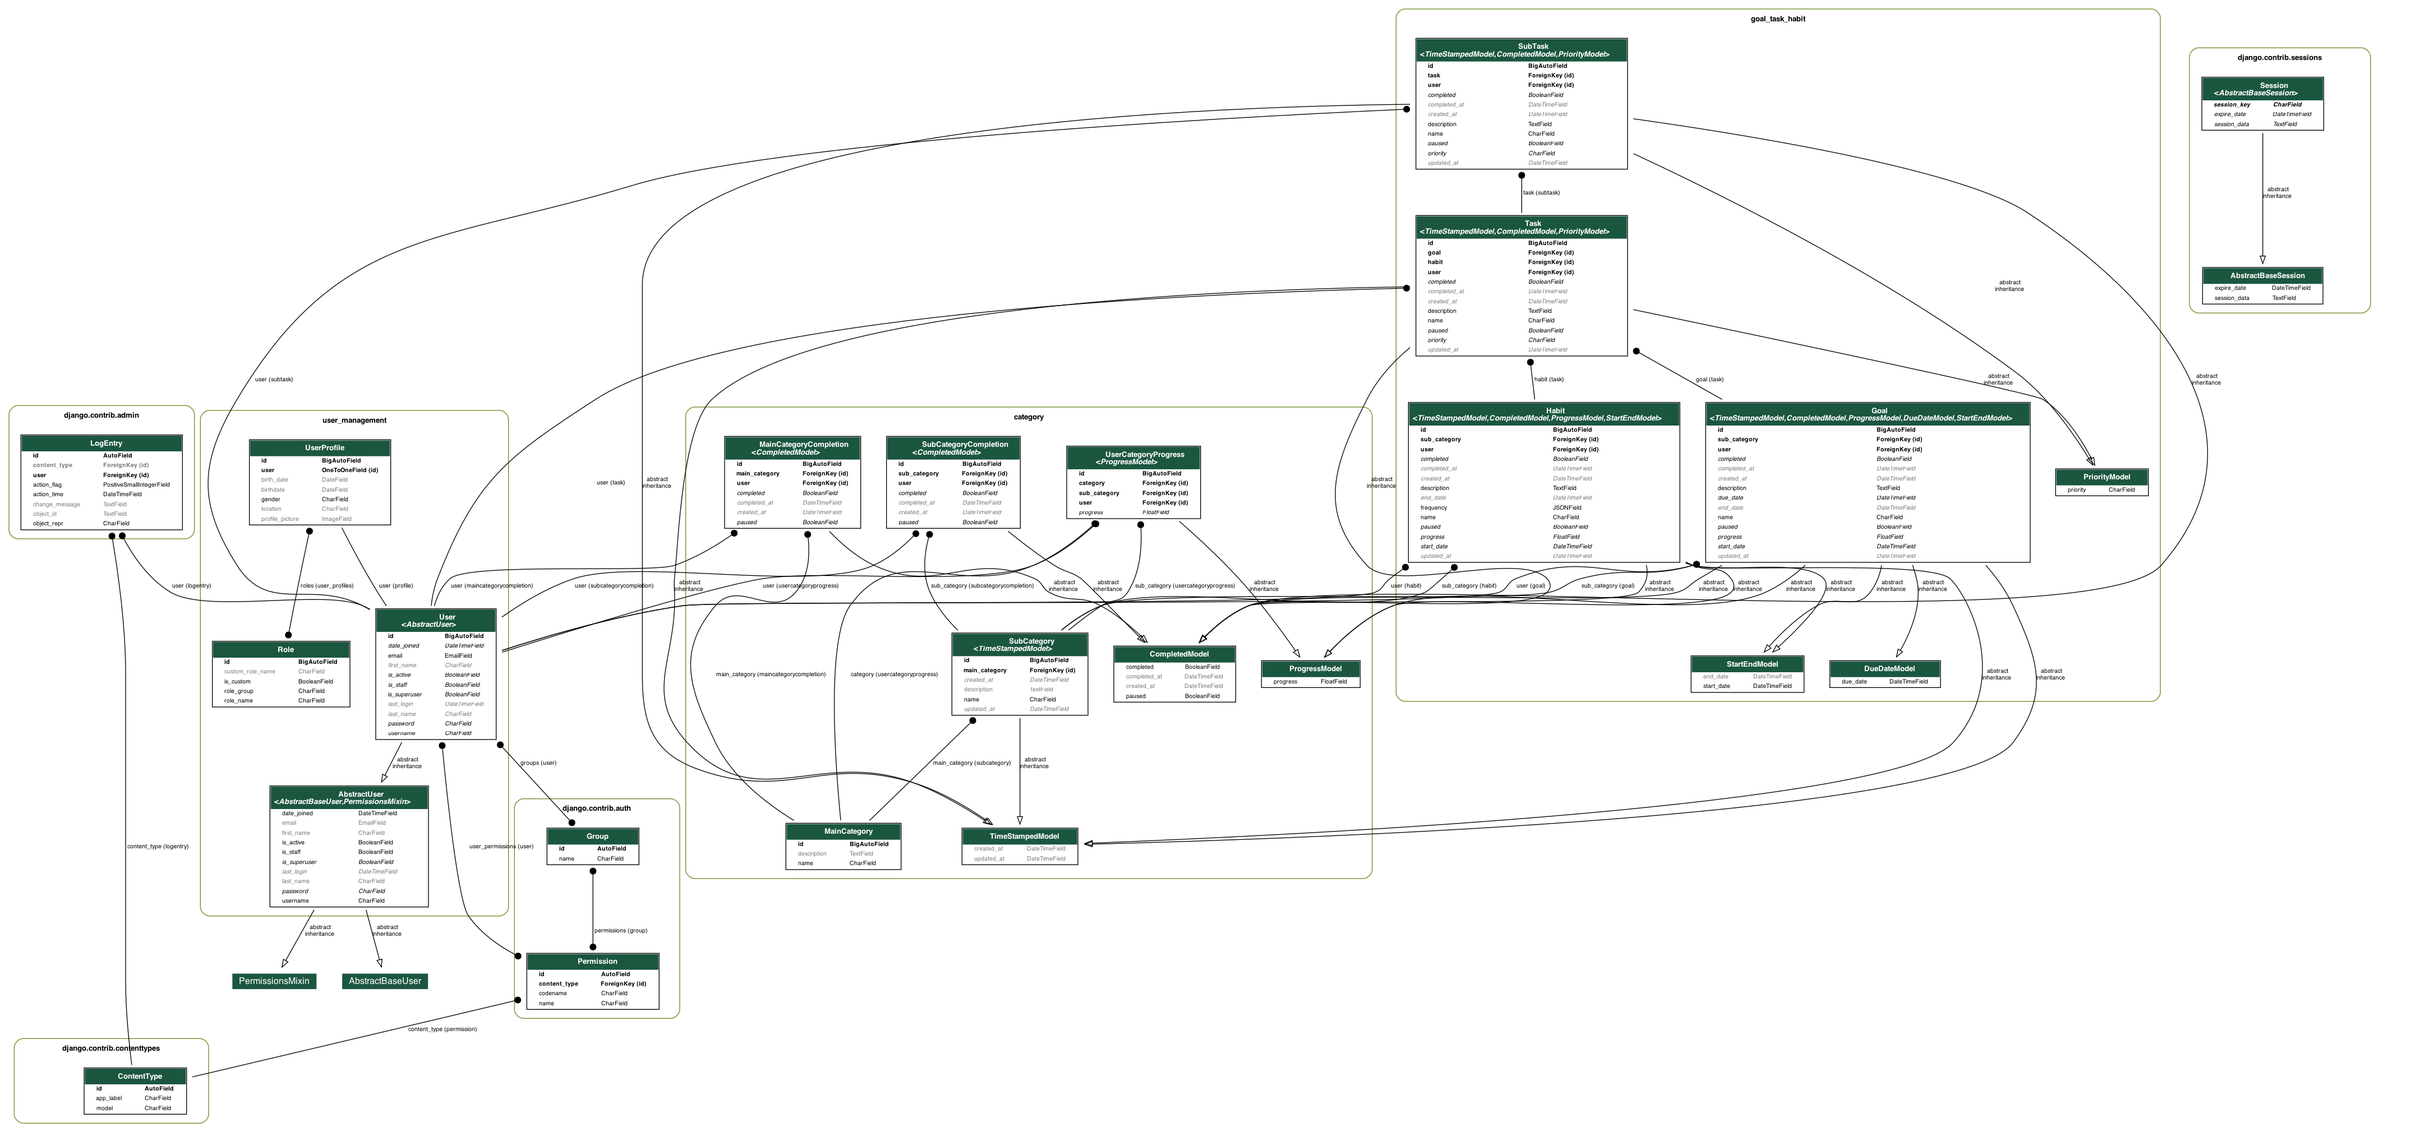
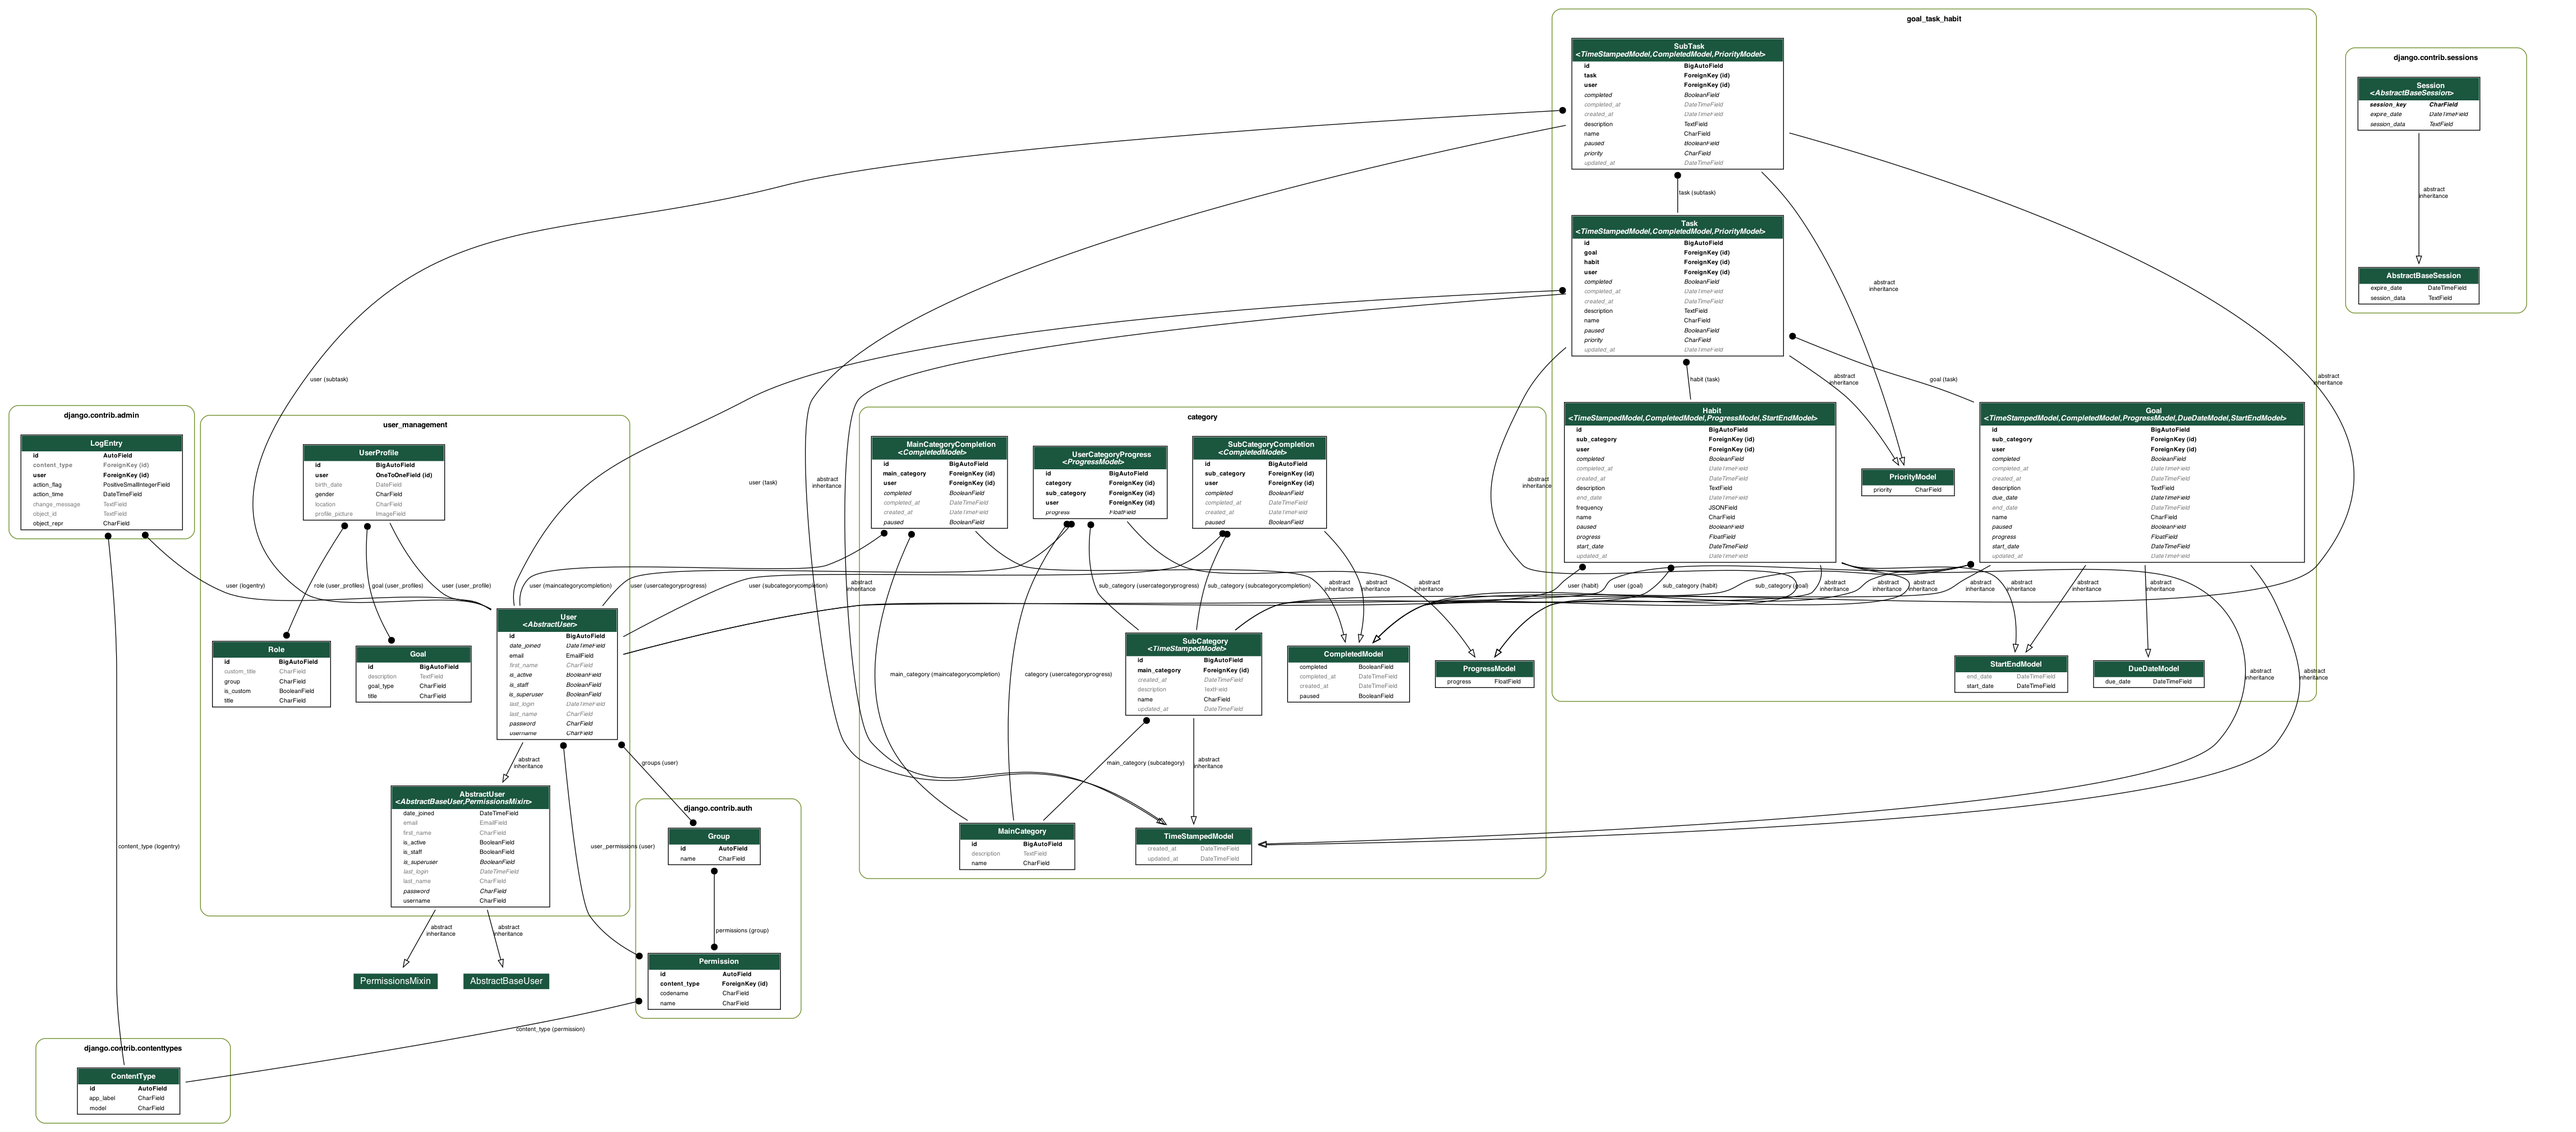
fixing issues

diff --git a/user_management/models.py b/user_management/models.py
@@ -31,7 +31,7 @@ class UserProfile(models.Model):
     user = models.OneToOneField(User, on_delete=models.CASCADE, related_name='user_profile')
     birth_date = models.DateField(null=True, blank=True)
     location = models.CharField(max_length=255, null=True, blank=True)
-    roles = models.ManyToManyField('Role', related_name='user_profiles')
+    role = models.ManyToManyField('Role', related_name='user_profiles')
     goal = models.ManyToManyField('Goal', related_name='user_profiles')
     profile_picture = models.ImageField(upload_to='profile_picture/', blank=True, null=True)
 
@@ -47,24 +47,31 @@ class UserProfile(models.Model):
 
 
 class Role(models.Model):
-    role_name = models.CharField(max_length=50)
-    role_group = models.CharField(max_length=50)
-    custom_role_name = models.CharField(max_length=25, blank=True, null=True)
+    title = models.CharField(max_length=50, unique=True)
+    group = models.CharField(max_length=50)
+    custom_title = models.CharField(max_length=25, blank=True, null=True)
     is_custom = models.BooleanField(default=False)
 
     def clean(self):
         # Validation to ensure custom_role_name does not match any predefined role_name
-        if self.custom_role_name:
+        if self.custom_title:
             predefined_role_names = [choice[0] for choice in role_choises.ROLE_CHOICES]
-            if self.custom_role_name in predefined_role_names:
+            if self.custom_title in predefined_role_names:
                 raise ValidationError({'custom_role_name': 'This role already exists in our data.'})
+
+        # Validate role_group against ROLE_GROUPS keys
+        if self.group not in role_choises.ROLE_GROUPS:
+            raise ValidationError({'role_group': 'Invalid role group.'})
 
     def save(self, *args, **kwargs):
         self.clean()
         super(Role, self).save(*args, **kwargs)
 
+    class Meta:
+        unique_together = ('title', 'group')
+
     def __str__(self):
-        return self.custom_role_name if self.is_custom else self.role_name
+        return self.custom_title if self.is_custom else self.title
 
 
 class Goal(models.Model):
@@ -78,7 +85,7 @@ class Goal(models.Model):
 
     title = models.CharField(max_length=255)
     description = models.TextField(blank=True, null=True)
-    goal_type = models.CharField(max_length=20, choices=GOAL_TYPES)
+    goal_type = models.CharField(max_length=20)
 
     def __str__(self):
         return f'{self.title} ({self.goal_type})'

diff --git a/user_management/migrations/0002_goal_rename_custom_role_name_role_custom_title_and_more.py b/user_management/migrations/0002_goal_rename_custom_role_name_role_custom_title_and_more.py
@@ -1,0 +1,72 @@
+# Generated by Django 5.0.6 on 2024-07-19 23:17
+
+import django.db.models.deletion
+from django.conf import settings
+from django.db import migrations, models
+
+
+class Migration(migrations.Migration):
+
+    dependencies = [
+        ('user_management', '0001_initial'),
+    ]
+
+    operations = [
+        migrations.CreateModel(
+            name='Goal',
+            fields=[
+                ('id', models.BigAutoField(auto_created=True, primary_key=True, serialize=False, verbose_name='ID')),
+                ('title', models.CharField(max_length=255)),
+                ('description', models.TextField(blank=True, null=True)),
+                ('goal_type', models.CharField(choices=[('Personal', 'Personal'), ('Professional', 'Professional')], max_length=20)),
+            ],
+        ),
+        migrations.RenameField(
+            model_name='role',
+            old_name='custom_role_name',
+            new_name='custom_title',
+        ),
+        migrations.RenameField(
+            model_name='userprofile',
+            old_name='roles',
+            new_name='role',
+        ),
+        migrations.AlterUniqueTogether(
+            name='role',
+            unique_together={('title', 'group')},
+        ),
+        migrations.RemoveField(
+            model_name='userprofile',
+            name='birthdate',
+        ),
+        migrations.AddField(
+            model_name='role',
+            name='group',
+            field=models.CharField(default=1, max_length=50),
+            preserve_default=False,
+        ),
+        migrations.AddField(
+            model_name='role',
+            name='title',
+            field=models.CharField(default=1, max_length=50, unique=True),
+            preserve_default=False,
+        ),
+        migrations.AlterField(
+            model_name='userprofile',
+            name='user',
+            field=models.OneToOneField(on_delete=django.db.models.deletion.CASCADE, related_name='user_profile', to=settings.AUTH_USER_MODEL),
+        ),
+        migrations.AddField(
+            model_name='userprofile',
+            name='goal',
+            field=models.ManyToManyField(related_name='user_profiles', to='user_management.goal'),
+        ),
+        migrations.RemoveField(
+            model_name='role',
+            name='role_group',
+        ),
+        migrations.RemoveField(
+            model_name='role',
+            name='role_name',
+        ),
+    ]

diff --git a/user_management/signals/handlers.py b/user_management/signals/handlers.py
@@ -10,9 +10,9 @@ def create_customer_for_new_user(sender, **kwargs):
         UserProfile.objects.create(user=kwargs['instance'])
 
 
-@receiver(post_migrate)
-def add_predefined_roles(sender, **kwargs):
-    if sender.name == 'user_management':
-        for group, roles in Role.ROLE_GROUPS.items():
-            for role_name, role_display in roles:
-                Role.objects.get_or_create(role_name=role_name, role_group=group)
+# @receiver(post_migrate)
+# def add_predefined_roles(sender, **kwargs):
+#     if sender.name == 'user_management':
+#         for group, roles in Role.ROLE_GROUPS.items():
+#             for role_name, role_display in roles:
+#                 Role.objects.get_or_create(role_name=role_name, role_group=group)

diff --git a/user_management/migrations/0003_alter_goal_goal_type.py b/user_management/migrations/0003_alter_goal_goal_type.py
@@ -1,0 +1,18 @@
+# Generated by Django 5.0.6 on 2024-07-19 23:22
+
+from django.db import migrations, models
+
+
+class Migration(migrations.Migration):
+
+    dependencies = [
+        ('user_management', '0002_goal_rename_custom_role_name_role_custom_title_and_more'),
+    ]
+
+    operations = [
+        migrations.AlterField(
+            model_name='goal',
+            name='goal_type',
+            field=models.CharField(max_length=20),
+        ),
+    ]

diff --git a/user_management/admin.py b/user_management/admin.py
@@ -10,5 +10,5 @@ class UserAdmin(admin.ModelAdmin):
 @admin.register(models.UserProfile)
 class UserProfileAdmin(admin.ModelAdmin):
     list_display = ['user']
-    filter_horizontal = ['roles']
+    filter_horizontal = ['role']
 
